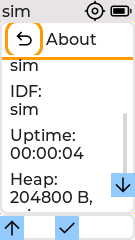
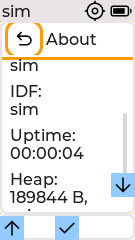
docs: regenerate the gallery captures that changed
The device info and About heap values follow the code-derived boot heap
from #412 and #413. The Large text header no longer cuts the title after
the #415 header fix. Update the wiki copies and record each change in
plan 316.

Changed region(s): [[0.0593, 0.7875, 0.6815, 0.875]]

diff --git a/plans/316-docs-capture-companion-reject.md b/plans/316-docs-capture-companion-reject.md
@@ -46,7 +46,22 @@ compares found `companion-reject` is the only collision.
 The branch starts from PR #415, which adds the `heap_count.h` include the
 non-rig `sim/CompanionRigTransport.cpp` branch needs to compile.
 
+## Regenerated captures
+
+With the fix, `connecting`, `remote` and `camera-pairing` are byte-identical
+to the committed images. They only differed in the stopped run because the
+pairing box covered them. These captures did change:
+
+| Images | Change | Cause |
+| --- | --- | --- |
+| `diag-device-info`, `textsize/{small,normal}/device-info`, `scroll/{default,dark}/about-{2,3}` | Heap reads 175056 B on Device info and 189520 B, min 187040 B on About, not 204800 B | #412 and #413 seed each board with its code-derived boot heap and charge device allocations |
+| `textsize/large/{connected,device-info,settings}` | The header title is no longer cut at the top edge | The PR #415 header row fix |
+| `connected` | One pixel in the Bulb icon is one antialiasing shade lighter | Not isolated. It reproduced byte-identically in two runs on this branch |
+
+The wiki copies of `connected` and `diag-device-info` are updated in
+`docs/wiki/img/`. The wiki needs a push. `docs/ui-walkthrough.md` embeds
+these files by path and quotes no heap value, so its text is unchanged.
+
 ## Implementation state
 
-Implemented. See the PR for the verification results and the regenerated
-gallery images.
+Implemented. `docs-capture.sh` completes on all three boards and themes.
